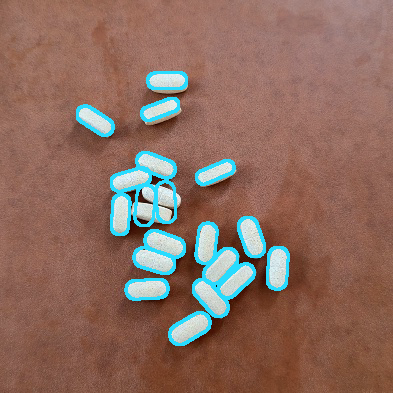
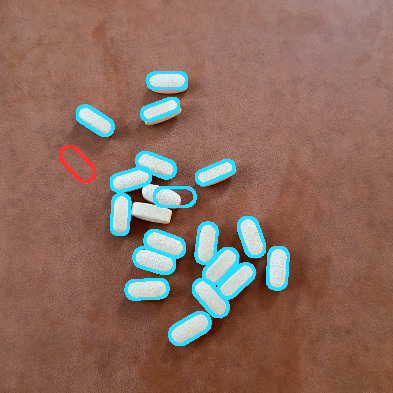
Update /pill (ValEye v20260806-1811)

Changed region(s): [[0.3359, 0.458, 0.4885, 0.5802], [0.1527, 0.3664, 0.2443, 0.4885], [0.4885, 0.4885, 0.5191, 0.5191]]

diff --git a/pill/js/counter.js b/pill/js/counter.js
@@ -4079,38 +4079,67 @@ export function countPills(cv, source, opts = {}) {
           if (x < 0 || y < 0 || x >= w || y >= h) return 0;
           return activeMd[(y | 0) * w + (x | 0)] > 0 ? 1 : 0;
         };
+        const lumAt = (x, y) => {
+          const i = ((y | 0) * w + (x | 0)) * 4;
+          return (src.data[i] + src.data[i + 1] + src.data[i + 2]) / 3;
+        };
         const poseScore = (p2, cx, cy, th) => {
           const c = Math.cos(th), s2 = Math.sin(th);
           const a = 0.46 * p2.major, b = 0.46 * p2.minor;
           let inFg = 0, inBg = 0;
+          const lums = [];
           for (let i = 0; i < 9; i++) for (let j = 0; j < 5; j++) {
             const u = (i / 8) * 2 - 1, v = (j / 4) * 2 - 1;
             if (u * u + v * v > 1.05) continue;
             const x = cx + u * a * c - v * b * s2;
             const y = cy + u * a * s2 + v * b * c;
-            fgAt(x, y) ? inFg++ : inBg++;
+            if (fgAt(x, y)) { inFg++; lums.push(lumAt(x, y)); }
+            else inBg++;
           }
-          return inFg - 2 * inBg;    // claiming background is worse than
-        };                            // leaving foreground for a neighbour
-        for (const g of regions) {
-          if (!g.pills) continue;
-          for (const p2 of g.pills) {
-            let best = { s: poseScore(p2, p2.cx, p2.cy, p2.theta),
-              cx: p2.cx, cy: p2.cy, th: p2.theta };
-            for (let pass = 0; pass < 2; pass++) {
-              const dth = pass === 0 ? Math.PI / 12 : Math.PI / 48;   // 15°, then 3.75°
-              const dxy = pass === 0 ? 2.5 : 1;
-              for (let r2 = -6; r2 <= 6; r2++) {
-                const th = best.th + r2 * dth;
-                for (let ox = -1; ox <= 1; ox++) for (let oy = -1; oy <= 1; oy++) {
-                  const sc = poseScore(p2, best.cx + ox * dxy, best.cy + oy * dxy, th);
-                  if (sc > best.s) best = { s: sc, cx: best.cx + ox * dxy, cy: best.cy + oy * dxy, th };
+          // SEAM AVOIDANCE (owner: "the pixels inside the outline should be
+          // similar — a seam inside means you're covering two pills"). A pose
+          // that straddles two pills crosses the dark contact line between
+          // them; its interior then contains samples well below its own
+          // median. Penalize those. The 15-luma margin sits below the
+          // measured real-photo seam depth (19-64 luma) and above pill
+          // speckle spread, so single-pill interiors are untouched.
+          let seam = 0;
+          if (lums.length >= 6) {
+            const sl = [...lums].sort((x2, y2) => x2 - y2);
+            const medL = sl[sl.length >> 1];
+            for (const L of lums) if (L < medL - 15) seam++;
+          }
+          return inFg - 2 * inBg - 1.5 * seam;
+        };
+        const refinePoses = () => {
+          for (const g of regions) {
+            if (!g.pills) continue;
+            for (const p2 of g.pills) {
+              let best = { s: poseScore(p2, p2.cx, p2.cy, p2.theta),
+                cx: p2.cx, cy: p2.cy, th: p2.theta };
+              // ESCAPE RECOVERY: a placement mostly over background (shoved
+              // there by collision resolution) needs reach, not fine-tuning —
+              // widen the first pass's search radius until it can get home.
+              const maxIn = 33; // samples inside the u,v disc
+              const lost = best.s < maxIn * 0.2;
+              for (let pass = 0; pass < 2; pass++) {
+                const dth = pass === 0 ? Math.PI / 12 : Math.PI / 48;
+                const dxy = pass === 0 ? (lost ? 6 : 2.5) : 1;
+                const reach = pass === 0 && lost ? 3 : 1;
+                for (let r2 = -6; r2 <= 6; r2++) {
+                  const th = best.th + r2 * dth;
+                  for (let ox = -reach; ox <= reach; ox++) for (let oy = -reach; oy <= reach; oy++) {
+                    const sc = poseScore(p2, best.cx + ox * dxy, best.cy + oy * dxy, th);
+                    if (sc > best.s) best = { s: sc, cx: best.cx + ox * dxy, cy: best.cy + oy * dxy, th };
+                  }
                 }
               }
+              p2.cx = best.cx; p2.cy = best.cy; p2.theta = +best.th.toFixed(3);
             }
-            p2.cx = best.cx; p2.cy = best.cy; p2.theta = +best.th.toFixed(3);
           }
-        }
+        };
+        refinePoses();
+        regions.__refinePoses = refinePoses;   // second pass after physics
       }
 
       // ---- rigid-body relaxation over every placement ----
@@ -4147,18 +4176,86 @@ export function countPills(cv, source, opts = {}) {
           if (iter === 0) { pairsFixed++; if (pen > worstBefore) worstBefore = pen; }
           if (pen > worst) worst = pen;
           const mA = bodies[i].movable, mB = bodies[j].movable;
+          // Packed rigid pills resolve contact by ROTATING as much as by
+          // sliding (the owner's point) — and a translation push can shove a
+          // pill clean off the foreground. Try both: small counter-rotations
+          // of each movable body, or the translation push; keep whichever
+          // resolves the most penetration per unit of background claimed.
+          const fgFrac = (P) => {
+            const c2 = Math.cos(P.theta), s3 = Math.sin(P.theta);
+            const a2 = 0.42 * P.major, b2 = 0.42 * P.minor;
+            let f = 0, n2 = 0;
+            for (let ii = 0; ii < 5; ii++) for (let jj = 0; jj < 3; jj++) {
+              const u = (ii / 4) * 2 - 1, v = (jj / 2) * 2 - 1;
+              if (u * u + v * v > 1.05) continue;
+              n2++;
+              if (activeMd[((P.cy + u * a2 * s3 + v * b2 * c2) | 0) * w +
+                           ((P.cx + u * a2 * c2 - v * b2 * s3) | 0)] > 0) f++;
+            }
+            return n2 ? f / n2 : 0;
+          };
+          const trial = (dA, dB, rA, rB) => {
+            const A2 = { ...A, cx: A.cx + nx * dA, cy: A.cy + ny * dA, theta: A.theta + rA };
+            const B2 = { ...B, cx: B.cx - nx * dB, cy: B.cy - ny * dB, theta: B.theta + rB };
+            const { d: d2 } = closest(A2, B2);
+            const resolved = d2 - d;                      // how much gap gained
+            const fg2 = (mA ? fgFrac(A2) : 1) + (mB ? fgFrac(B2) : 1);
+            return { A2, B2, gain: resolved + 1.2 * fg2 };
+          };
           const step = pen / 2 + 0.2;
-          if (mA && mB) {
-            A.cx += nx * step; A.cy += ny * step;
-            B.cx -= nx * step; B.cy -= ny * step;
-          } else if (mA) { A.cx += nx * (pen + 0.3); A.cy += ny * (pen + 0.3); }
-          else if (mB) { B.cx -= nx * (pen + 0.3); B.cy -= ny * (pen + 0.3); }
+          const cands = [];
+          if (mA && mB) cands.push(trial(step, step, 0, 0));
+          else if (mA) cands.push(trial(pen + 0.3, 0, 0, 0));
+          else if (mB) cands.push(trial(0, pen + 0.3, 0, 0));
+          const ROT = Math.PI / 16;
+          if (mA) { cands.push(trial(0, 0, ROT, 0)); cands.push(trial(0, 0, -ROT, 0)); }
+          if (mB) { cands.push(trial(0, 0, 0, ROT)); cands.push(trial(0, 0, 0, -ROT)); }
+          if (cands.length) {
+            const bestC = cands.sort((x2, y2) => y2.gain - x2.gain)[0];
+            if (mA) { A.cx = bestC.A2.cx; A.cy = bestC.A2.cy; A.theta = bestC.A2.theta; }
+            if (mB) { B.cx = bestC.B2.cx; B.cy = bestC.B2.cy; B.theta = bestC.B2.theta; }
+          }
         }
         worstAfter = worst;
         if (worst <= 0.75) break;
       }
       if (pairsFixed) opts.debug?.({ stage: 'physics', pairs: pairsFixed,
         worstBefore: +worstBefore.toFixed(1), worstAfter: +worstAfter.toFixed(1) });
+      // settle poses once more after collisions moved anything
+      if (pairsFixed && regions.__refinePoses) regions.__refinePoses();
+      delete regions.__refinePoses;
+
+      // INVALID-PLACEMENT RECOVERY. When a blob's count is short, one
+      // placement has no pill of its own; collision resolution tends to
+      // evict it onto bare board, where it draws as a runaway lasso over
+      // nothing. Snap any placement that ended over background BACK onto
+      // the densest foreground — physics exemption granted — and mark it
+      // invalid. Two overlapping claims on the same material, one dashed
+      // red, IS the honest picture of an under-count: the display shows
+      // where the extra pill claim landed, and valid=0 feeds the flag.
+      for (const g of regions) {
+        if (!g.pills) continue;
+        for (const p2 of g.pills) {
+          const st3 = pillPhotoStats(distBg.data, w, h, p2, otsuThr);
+          if (st3.bgFrac <= 0.3) continue;
+          // foreground-only pose search: home is wherever the mask is
+          let best = null;
+          const lbl = g.label;
+          for (let dy = -14; dy <= 14; dy += 3) for (let dx = -14; dx <= 14; dx += 3) {
+            for (let r3 = 0; r3 < 6; r3++) {
+              const th = p2.theta + (r3 - 2.5) * Math.PI / 12;
+              const cand = { ...p2, cx: p2.cx + dx, cy: p2.cy + dy, theta: th };
+              const st4 = pillPhotoStats(distBg.data, w, h, cand, otsuThr);
+              const sc = st4.mean * (1 - st4.bgFrac);
+              if (!best || sc > best.sc) best = { sc, cand, bg: st4.bgFrac };
+            }
+          }
+          if (best && best.bg < st3.bgFrac - 0.1) {
+            p2.cx = best.cand.cx; p2.cy = best.cand.cy; p2.theta = +best.cand.theta.toFixed(3);
+          }
+          p2.valid = 0;   // photo rejected it wherever it stands — flag it
+        }
+      }
     }
 
     const out = { count, regions, scale, boundaries, width: w, height: h, unitArea, thr: otsuThr };

diff --git a/pill/sw.js b/pill/sw.js
@@ -1,4 +1,4 @@
-const CACHE = 'valeye-v20260806-1758';
+const CACHE = 'valeye-v20260806-1811';
 const ASSETS = [
   './',
   'index.html',
